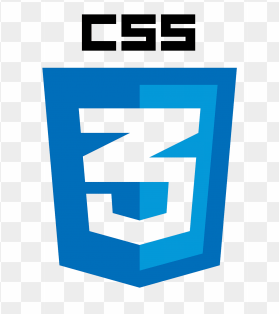
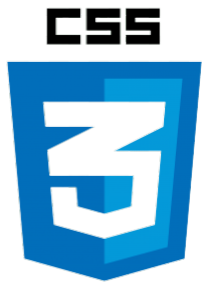
modified html, css, and removed background of images

diff --git a/index.html b/index.html
@@ -11,14 +11,16 @@
   <!-- header -->
   <div class="container">
     <div class="header">
-      <h1 class="logo">&ltfrontend/&gt</h1>
-      <div class="links">
-        <ul>
-          <li><a href="#">Home</a></li>
-          <li><a href="#">Courses</a></li>
-          <li><a href="#">About</a></li>
-          <li><a href="#">Contact</a></li>
-        </ul>  
+      <div class="navbar">
+        <h1 class="logo">&ltfrontend/&gt</h1>
+        <div class="links">
+          <ul>
+            <li><a href="#">Home</a></li>
+            <li><a href="#">Courses</a></li>
+            <li><a href="#">About</a></li>
+            <li><a href="#">Contact</a></li>
+          </ul>  
+        </div>
       </div>
     </div>
     <div class="hero">
@@ -30,41 +32,42 @@
       <img src="./images/hero.jpg" alt="two people looking at a computer">
     </div>
   </div>
-
-    <!-- information section -->
-    <section class="information">
+  <!-- information section -->
+  <section>
+    <h1 class="header-info">What we teach.</h1>
+    <div class="information">
       <div class="info">
-         <img src="./images/html.png" alt="html logo"> 
-         <p>Lorem, ipsum dolor sit amet consectetur adipisicing elit. Rerum, fugit.</p>
+          <img src="./images/html.png" alt="html logo"> 
+          <p>Lorem ipsum dolor sit amet consectetur adipisicing elit. Obcaecati, officia? Voluptas ipsam quibusdam repellat ullam, molestiae perferendis atque et at?</p>
       </div>
       <div class="info">
         <img src="./images/css.png" alt="css logo">
-        <p>Lorem ipsum dolor sit amet consectetur adipisicing elit. Voluptates, perspiciatis.</p>
+        <p>Lorem ipsum dolor sit amet consectetur adipisicing elit. Distinctio at tenetur minus excepturi blanditiis rem, esse tempore nobis odio molestiae?</p>
       </div>
       <div class="info">
         <img src="./images/js.png" alt="javascript logo">
-        <p>Lorem ipsum, dolor sit amet consectetur adipisicing elit. Mollitia, recusandae.</p>
+        <p>Lorem ipsum dolor sit amet consectetur adipisicing elit. Accusantium dolorem aliquid non dolorum voluptatum deleniti, reprehenderit dicta at fugit illum!</p>
       </div>
-    </section>
-    <!-- testimonial section -->
-    <section class="testimonials">
-      <div class="content">
-        <p>Lorem, ipsum dolor sit amet consectetur adipisicing elit. Fugiat blanditiis iure nihil cumque accusantium adipisci quam facere reprehenderit in quasi. Amet quibusdam recusandae tempora consequuntur dolor voluptatum repudiandae quidem reiciendis.</p>
-        <h4> Odin, The Allfather</h4>
-      </div>
-    </section>
-    <!-- call to action -->
-    <section class="contact">
-      <div class="content">
-        <h4>Ready to start your web development career?</h4>
-        <p>Sign up for our frontend web development course.</p>
-        <button class="button">Sign up</button>
-      </div>
-    </section>
-    <!-- footer -->
-    <div class="footer">
-      <p>Copyright &copy; The Odin Project | Alvin Narag 2022 </p>
     </div>
+  </section>
+  <!-- testimonial section -->
+  <section class="testimonials">
+    <div class="content">
+      <p>Lorem, ipsum dolor sit amet consectetur adipisicing elit. Fugiat blanditiis iure nihil cumque accusantium adipisci quam facere reprehenderit in quasi. Amet quibusdam recusandae tempora consequuntur dolor voluptatum repudiandae quidem reiciendis.</p>
+      <h4> Odin, The Allfather</h4>
+    </div>
+  </section>
+  <!-- call to action -->
+  <section class="contact">
+    <div class="content">
+      <h4>Ready to start your web development career?</h4>
+      <p>Sign up for our frontend web development course.</p>
+      <button class="button">Sign up</button>
+    </div>
+  </section>
+  <!-- footer -->
+  <div class="footer">
+    <p>Copyright &copy; The Odin Project | Alvin Narag 2022 </p>
   </div>
 </body>
 </html>

diff --git a/css/styles.css b/css/styles.css
@@ -3,17 +3,26 @@ body {
     margin: 0;
 }
 
-/* Headers section */
+/* header css */
 .container {
     background: #1f2937;
 }
 
-.header, .hero {
+.header {
+    margin: 0 10rem;
+    padding: .5rem 0;
+}
+
+.navbar, .hero {
     display: flex;
     justify-content: space-between;
     align-items: center;
-    padding: 0 3rem;
-    margin: 0 7rem;
+    padding: 0 3.5rem;
+}
+
+.hero {
+    margin: 5rem 10rem;
+    padding-bottom: 6rem;
 }
 
 .links {
@@ -39,14 +48,9 @@ a {
     font-size: 27px;
 }
 
-.hero {
-    margin: 7rem;
-    padding-bottom: 7rem;
-}
-
 .content {
     flex-wrap: wrap;
-    width: 500px;
+    width: 550px;
 }
 
 .heading {
@@ -65,8 +69,25 @@ p {
     border-radius: 6px;
     background-color: #3882f6;
     border-style: none;
-    padding: 5px 20px;
+    padding: 8px 25px;
     color: #f9faf8;
-    font-size: 16px;
+    font-size: 18px;
 }
 
+/* information css */
+
+.information {
+    display: flex;
+    justify-content: space-around;
+    align-items: center;
+    padding: 0 10rem;
+    text-align: center;
+}
+
+.header-info {
+    margin-top: -45px;
+    text-align: center;
+    font-size: 45px;
+    font-weight: 900;
+    color: #1f2937;
+}
